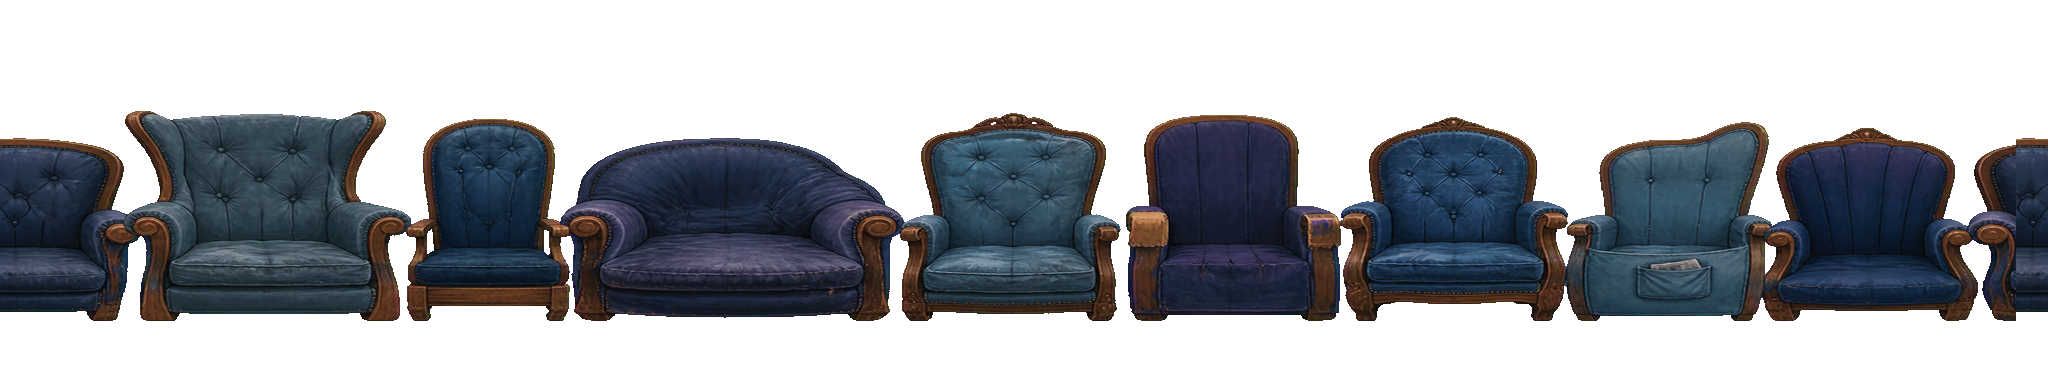
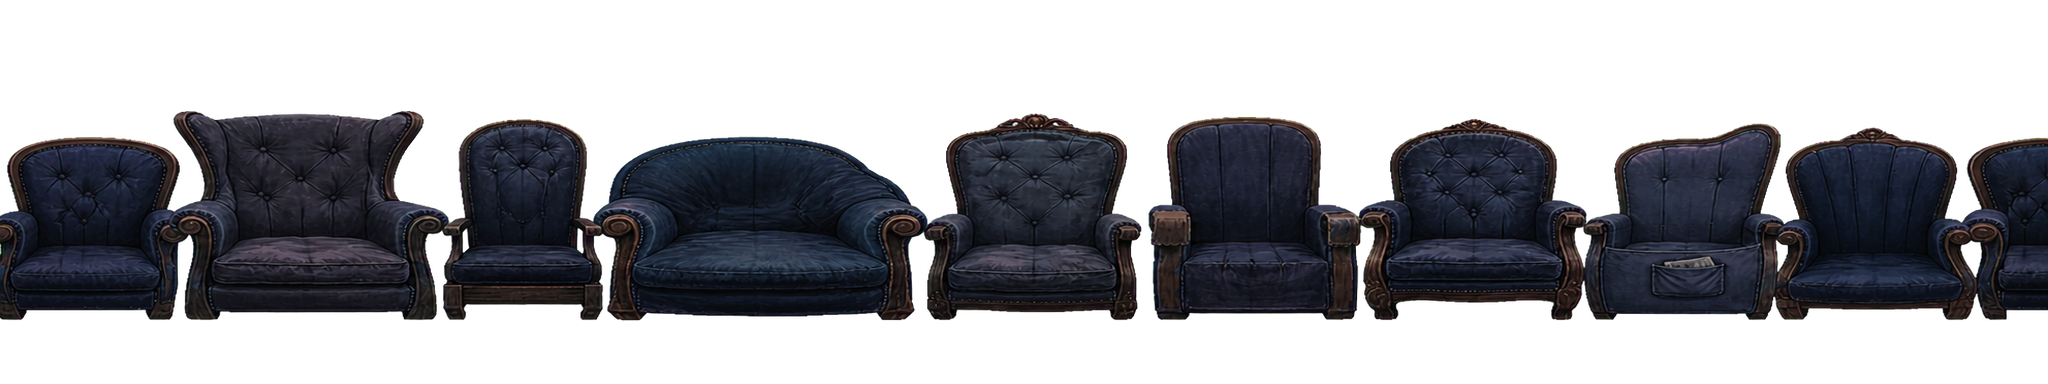
R5-T10 · Posten A: die Nacht-Bänder sind im Spiel — und die 31.10.-Ausnahme fällt vor ihrem Datum
Beide AQ22-Blätter importiert (band A2 · l2 R1, beide am Wareneingang 30.08.
Panel-abgenommen und byte-eingefroren), die Schlüsselzahl des Raumes auf die
Nacht gezogen (K 28 → 19, R231) samt Wäsche-Nachzug, und
`DEPTH_WAIVERS["ch01/p4"]` ERSATZLOS gelöscht.

Gemessen nach dem Import, `check-composition` exit 0, 11 Audits grün:
  L0 19,1 % [17,7–20,5] · L1 16,3 % [15,2–19,0] · L2 11,6 % [9,5–14,3]
  L1↔L2-Kluft 4,7 gegen ein Gesetz von 1,9
  L1 16,3 → L2b 14,5 → L2 11,6 (drei Bänder, Gesetz ≥ 0,8 auseinander)
TAMPER: Schlüsselzahl zurück auf 28 ⇒ dieselben drei Ebenen fallen aus ihren
Bändern, exit 1; Datei danach md5-gleich zurückgebaut.

Zwei Dinge, die die Order nicht nennt und die gemessen wurden:
· `nearPlaneTint(19)` zeichnet die begehbare Nahebene um 4 von 255 heller als
  bei 28 — eine Bild-Änderung, keine reine Mess-Änderung.
· `heroEdgeFor` ist eine Stufe bei K=50; 28 und 19 liegen beide darunter, die
  Kontur des Kindes bleibt unverändert.

Die Ring-Abnahme des Band-Zweigs bekommt eine BENANNTE, DATIERTE Ausnahme
(bis 30.11.), gepinnt auf die RGB-Bytes der angenommenen Lieferung. Grund
gemessen: derselbe Tor-Lauf gegen den ANGENOMMENEN Bestand ist ebenfalls rot
(4 Befunde), an zwei Struktur-Regeln mit schlechteren Werten (342 leere
Spalten gegen 246). Die drei übrigen Regeln hängen an der ersetzten Lieferung:
`BAND_L` [14,0–15,5] IST das K=28-Fenster, und der Holzton-Median 180° liegt im
Tal einer ZWEIGIPFLIGEN Verteilung (40 % warmes Holz bei 0–29°, 48 % kalter
[…]

diff --git a/packages/game-paint/src/composition.ts b/packages/game-paint/src/composition.ts
@@ -1108,8 +1108,47 @@ export const CH01_COMPOSITION: Record<string, CompositionSpec> = {
   },
   // p4 Tafel-Bühne — stage-dusk: dark wood shell, audience in dusk blue.
   p4: {
-    key: 28,
-    wash: { colors: [0x3a3348, 0x4a3f4e, 0x5d4f52] },
+    // ── R5-T10 · DIE SCHLUESSELZAHL FOLGT DER NACHT (R231, 2026-08-31) ───────
+    //
+    // K ist die Helligkeit der Raumluft, und aus ihr leitet `bandsFor(K)` JEDES
+    // Ebenen-Fenster ab. 28 war der Wert des HELLEN Saals. Seit AQ13C7 ist die
+    // Buehne ein Nacht-Saal, und seit heute sind es auch die zwei Moebelbaender
+    // davor (AQ22, Wareneingang 30.08., beide Blaetter Panel-abgenommen und
+    // byte-eingefroren). Die Deklaration folgt der Wahrheit — genau wie bei p9,
+    // das aus demselben Grund von 16 auf 14 ging.
+    //
+    // Gemessen am Stand DIESES Commits, gegen `bandsFor(19)`:
+    //   L0 Waesche   19,07 %  Fenster 17,67–20,52  (Rand 1,40 / 1,45)
+    //   L1 Wand      16,3  %  Fenster 15,20–19,00
+    //   L2 Band      11,6  %  Fenster  9,50–14,25
+    //   L1↔L2-Kluft   4,7 Punkte      Gesetz >= 0,10·K = 1,9
+    //   L2b rendert  ~14,5 %          Gesetz >= 0,04·K = 0,76 von beiden
+    // Damit faellt `DEPTH_WAIVERS["ch01/p4"]` (D-672) ersatzlos — die Ausnahme
+    // hatte GENAU DIESE Lieferung gekauft, und sie ist da.
+    //
+    // ⚠ EINE NIEDRIGERE SCHLUESSELZAHL ALLEIN LOEST ES NICHT, und der alte
+    //   Kommentar in check-composition.mjs sagt das zu Recht: durchgemessen an
+    //   der HELLEN Kunst ergab K = 19 sogar VIER Befunde statt drei. Was hier
+    //   traegt, ist der Zug aus K + neuer Kunst + neuer Waesche zusammen.
+    //
+    // ⚠ K IST KEIN REINES MESS-STELLRAD. `nearPlaneTint(key)` multipliziert die
+    //   begehbare Nahebene zur LAUFZEIT (PaintScene): 28 ergibt 0xe2e2e2, 19
+    //   ergibt 0xe6e6e6 — die Formel laeuft bei K=19 in ihren eigenen Boden
+    //   (d = 0,1), der Laufkurs wird also um 4 von 255 heller GEZEICHNET.
+    //   `heroEdgeFor` dagegen ist eine Stufe bei K = 50; 28 und 19 liegen beide
+    //   darunter, die Kontur des Kindes bleibt unveraendert. Beides gemessen,
+    //   nicht angenommen.
+    key: 19,
+    // Die Waesche zieht mit, als WERT-Pass im Sinn des Malers: EIN
+    // multiplikativer Faktor k = 0,72094 auf R, G und B (26,486 % → 19,073 %,
+    // die Mitte des neuen Fensters). Leuchtdichte ist linear in den Kanaelen,
+    // also bewegt k den Mittelwert um exakt k; Farbton und Saettigung bleiben
+    // die des Malers, weil (max − min) / max massstabsinvariant ist — gemessen
+    // 21,150 % → 21,138 %.
+    // ⚠ Die Saettigung lag schon VOR diesem Zug ueber der 20er-Kappe und liegt
+    //   danach genauso darueber. Das Tor MELDET sie (audit 1 laesst nur die
+    //   Leuchtdichte durchfallen); dieser Zug hat sie nicht bewegt.
+    wash: { colors: [0x2a2534, 0x352d38, 0x43393b] },
     far: shell("p4", 0.25),
     // R5-W2 · H1 · THE CLASS IS MISSING, AND NOW YOU CAN SEE IT.
     //

diff --git a/docs/handover/36_composition_law.md b/docs/handover/36_composition_law.md
@@ -43,7 +43,7 @@ world-scaled architecture separated by a value ramp, never one backdrop image.
 > **L0 ∈ [0.93·K, min(1.08·K, 96 %)] · L1 ∈ [0.80·K, 1.00·K] · L2 ∈ [0.50·K, 0.75·K] ·
 > L4 ≤ 0.45·K · L3 exempt from K (always full range — lit figures against a dark room
 > are the point).** Check at K=88 %: L0 82–95, L1 70–88, L2 44–66, L4 ≤40 — v1.0's
-> numbers exactly. **ch01 keys: p1 K=88 · p3 K=86 · p2 K=30 · p4 K=28 · p9 K=14 (lowered from 16 at the PK-C2b review — the delivered ink-dream measures ~15 air / 11.6 wall; the declaration follows the truth).**
+> numbers exactly. **ch01 keys: p1 K=88 · p3 K=86 · p2 K=30 · p4 K=19 · p9 K=14.** Two of these have moved, and both moved the same way — the declaration follows the delivered art: **p9** 16 → 14 at the PK-C2b review (the delivered ink-dream measures ~15 air / 11.6 wall); **p4** 28 → 19 at R5-T10 (R231, 2026-08-31), once the night versions of the two furniture bands landed (AQ22, Wareneingang 30.08.). Measured against `bandsFor(19)` on the importing commit: L0 19.1 · L1 16.3 · L2 11.6, L1↔L2 gap 4.7 against a law of 1.9, L2b rendering 14.5 between them. That retired `DEPTH_WAIVERS["ch01/p4"]` (D-672) before its 31.10.2026 expiry. ⚠ A lower key ALONE never did this — measured on the *bright* art, K = 28 · 22 · 20 · 19 · 18 · 16 gave 3 · 4 · 3 · 4 · 4 · 5 findings; what carries it is new art + new wash + new key in one commit.
 > Saturation caps stay absolute as tabled. Separation laws: **L2↔L3 stays ABSOLUTE**
 > (≥12 % luminance or ≥25 % saturation — readability never scales down); L1↔L2 gap
 > becomes relative (≥0.10·K — atmospheric dark phases may separate by silhouette).
